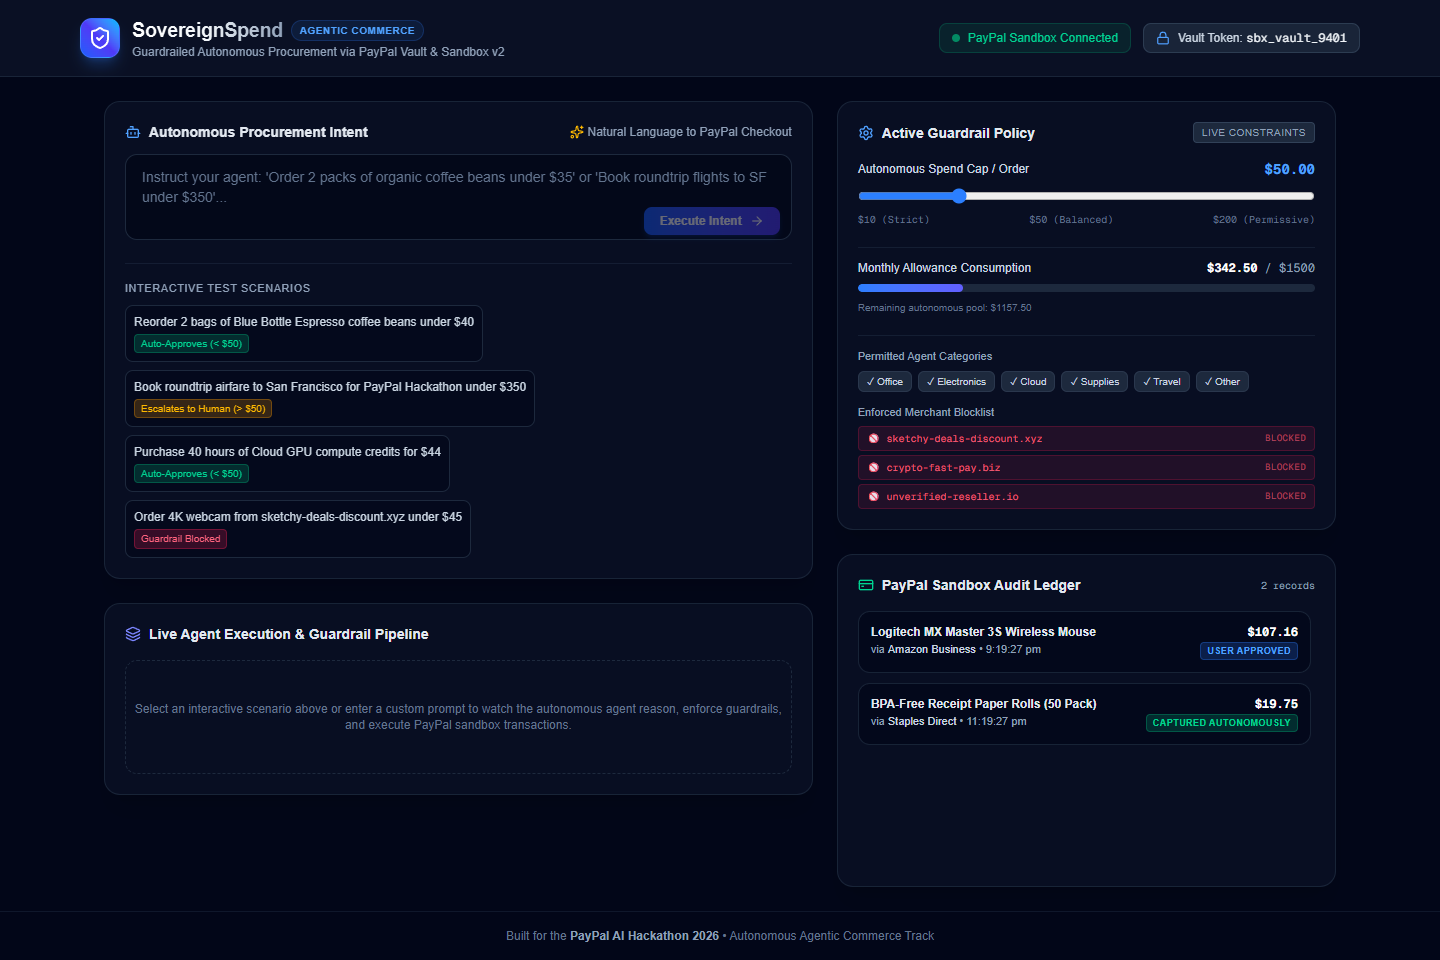
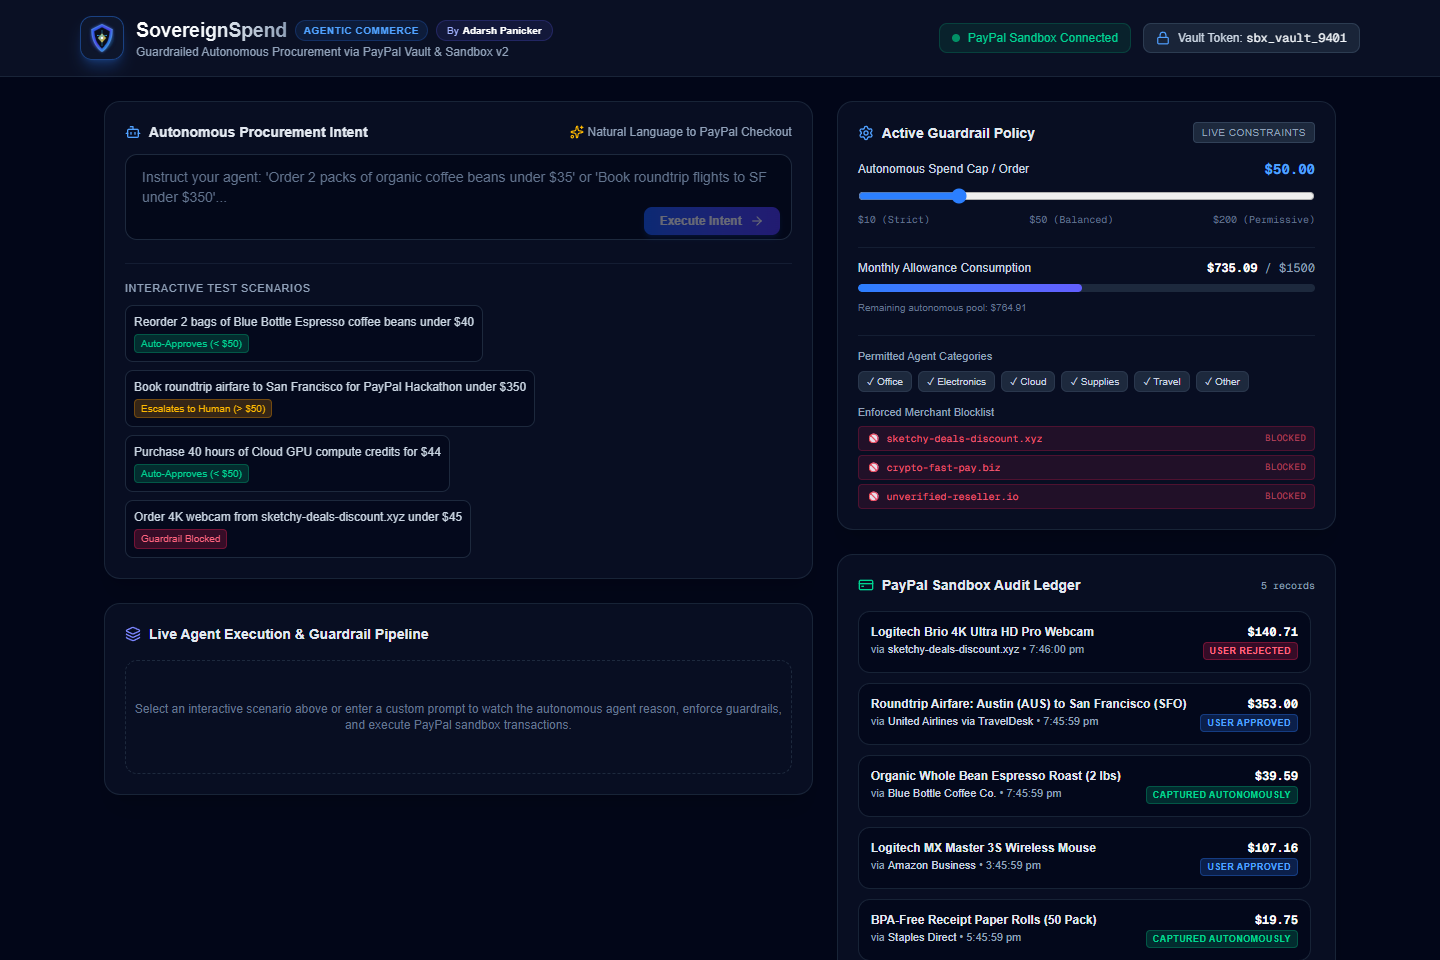
test: add comprehensive 30-assertion test suite & update screenshots and dynamic route handling

diff --git a/verify-all.js b/verify-all.js
@@ -1,0 +1,174 @@
+const puppeteer = require('puppeteer-core');
+const path = require('path');
+
+const BASE_URL = 'http://localhost:3000';
+const EDGE_PATH = 'C:\\Program Files (x86)\\Microsoft\\Edge\\Application\\msedge.exe';
+
+let testsPassed = 0;
+let testsFailed = 0;
+
+function assert(condition, message) {
+  if (condition) {
+    console.log(`  ✓ PASS: ${message}`);
+    testsPassed++;
+  } else {
+    console.error(`  ✗ FAIL: ${message}`);
+    testsFailed++;
+  }
+}
+
+async function runApiTests() {
+  console.log('\n--- 1. Testing REST API Endpoints ---');
+
+  // Test 1.1: GET /api/policy
+  console.log('Testing GET /api/policy:');
+  const polRes = await fetch(`${BASE_URL}/api/policy`);
+  assert(polRes.status === 200, 'GET /api/policy returns 200 OK');
+  const policy = await polRes.json();
+  assert(policy.maxAutoApproveLimit === 50, 'Default auto cap is $50.00');
+  assert(Array.isArray(policy.allowedCategories), 'Allowed categories list is defined');
+
+  // Test 1.2: POST /api/policy
+  console.log('Testing POST /api/policy (updating slider limit):');
+  const updatePolRes = await fetch(`${BASE_URL}/api/policy`, {
+    method: 'POST',
+    headers: { 'Content-Type': 'application/json' },
+    body: JSON.stringify({ maxAutoApproveLimit: 60 }),
+  });
+  assert(updatePolRes.status === 200, 'POST /api/policy returns 200 OK');
+  const updatedPolicy = await updatePolRes.json();
+  assert(updatedPolicy.maxAutoApproveLimit === 60, 'Updated auto cap to $60.00');
+
+  // Reset back to 50
+  await fetch(`${BASE_URL}/api/policy`, {
+    method: 'POST',
+    headers: { 'Content-Type': 'application/json' },
+    body: JSON.stringify({ maxAutoApproveLimit: 50, requireHumanApprovalAbove: 50 }),
+  });
+
+  // Test 1.3: POST /api/agent/procure (Auto-Approval Scenario)
+  console.log('Testing POST /api/agent/procure (Micro-procurement under $50):');
+  const autoRes = await fetch(`${BASE_URL}/api/agent/procure`, {
+    method: 'POST',
+    headers: { 'Content-Type': 'application/json' },
+    body: JSON.stringify({ prompt: 'Reorder 2 bags of Blue Bottle Espresso coffee beans under $40' }),
+  });
+  assert(autoRes.status === 200, 'POST /api/agent/procure returns 200 OK');
+  const autoData = await autoRes.json();
+  assert(autoData.success === true, 'Procurement agent succeeded');
+  assert(autoData.evaluation.decision === 'AUTO_APPROVE', 'Guardrail evaluated as AUTO_APPROVE');
+  assert(autoData.transaction.status === 'CAPTURED_AUTONOMOUSLY', 'Transaction status is CAPTURED_AUTONOMOUSLY');
+  assert(Boolean(autoData.transaction.paypalOrderId), 'PayPal Order ID generated');
+  assert(Boolean(autoData.transaction.paypalCaptureId), 'PayPal Capture ID generated via Vault token');
+  assert(autoData.steps.length >= 5, 'Agent completed at least 5 reasoning pipeline steps');
+
+  // Test 1.4: POST /api/agent/procure (High-Value Human-In-The-Loop Scenario)
+  console.log('Testing POST /api/agent/procure (High-value travel over $50):');
+  const hitlRes = await fetch(`${BASE_URL}/api/agent/procure`, {
+    method: 'POST',
+    headers: { 'Content-Type': 'application/json' },
+    body: JSON.stringify({ prompt: 'Book roundtrip airfare to San Francisco under $350' }),
+  });
+  assert(hitlRes.status === 200, 'POST /api/agent/procure returns 200 OK');
+  const hitlData = await hitlRes.json();
+  assert(hitlData.evaluation.decision === 'REQUIRE_HUMAN_APPROVAL', 'Guardrail flags REQUIRE_HUMAN_APPROVAL');
+  assert(hitlData.transaction.status === 'PENDING_USER_APPROVAL', 'Transaction status is PENDING_USER_APPROVAL');
+  assert(Boolean(hitlData.transaction.paypalOrderId), 'PayPal Order ID created for deferred capture');
+  const pendingTxId = hitlData.transaction.id;
+
+  // Test 1.5: POST /api/paypal/capture (User Approves the Pending Transaction)
+  console.log('Testing POST /api/paypal/capture (Human 1-click authorization):');
+  const capRes = await fetch(`${BASE_URL}/api/paypal/capture`, {
+    method: 'POST',
+    headers: { 'Content-Type': 'application/json' },
+    body: JSON.stringify({ transactionId: pendingTxId, action: 'APPROVE' }),
+  });
+  assert(capRes.status === 200, 'POST /api/paypal/capture returns 200 OK');
+  const capData = await capRes.json();
+  assert(capData.success === true, 'Capture endpoint returned success');
+  assert(capData.transaction.status === 'USER_APPROVED', 'Transaction transitioned to USER_APPROVED');
+  assert(Boolean(capData.transaction.paypalCaptureId), 'PayPal capture ID issued upon approval');
+
+  // Test 1.6: POST /api/agent/procure (Malicious / Blocked Domain)
+  console.log('Testing POST /api/agent/procure (Blocked merchant detection):');
+  const blockRes = await fetch(`${BASE_URL}/api/agent/procure`, {
+    method: 'POST',
+    headers: { 'Content-Type': 'application/json' },
+    body: JSON.stringify({ prompt: 'Order 4K webcam from sketchy-deals-discount.xyz under $45' }),
+  });
+  const blockData = await blockRes.json();
+  assert(blockData.success === true, 'Agent pipeline handled request');
+  assert(
+    blockData.evaluation.decision === 'REJECT' || blockData.evaluation.flags.includes('BLOCKED_MERCHANT'),
+    'Merchant blocklist triggered rejection/flags'
+  );
+
+  // Test 1.7: GET /api/transactions (Audit Ledger)
+  console.log('Testing GET /api/transactions (Audit Ledger):');
+  const txListRes = await fetch(`${BASE_URL}/api/transactions`);
+  assert(txListRes.status === 200, 'GET /api/transactions returns 200 OK');
+  const txList = await txListRes.json();
+  assert(Array.isArray(txList) && txList.length >= 3, 'Audit ledger contains recorded transactions');
+}
+
+async function runBrowserTests() {
+  console.log('\n--- 2. Testing Browser UI & Real-Time Interaction ---');
+
+  const browser = await puppeteer.launch({
+    executablePath: EDGE_PATH,
+    headless: 'new',
+    args: ['--no-sandbox', '--disable-setuid-sandbox'],
+  });
+
+  const page = await browser.newPage();
+  const consoleErrors = [];
+  page.on('pageerror', (err) => consoleErrors.push(err.message));
+
+  await page.goto(BASE_URL, { waitUntil: 'networkidle2' });
+
+  // Check Title
+  const title = await page.title();
+  assert(title.includes('SovereignSpend'), `Page title contains 'SovereignSpend' (got: "${title}")`);
+
+  // Check Author attribution
+  const pageContent = await page.content();
+  assert(pageContent.includes('Adarsh Panicker'), 'Author name "Adarsh Panicker" is rendered in UI');
+
+  // Check Logo
+  const logoExists = await page.$('img[alt="SovereignSpend Logo"]');
+  assert(logoExists !== null, 'Logo element is present in header');
+
+  // Check PayPal Sandbox badge
+  assert(pageContent.includes('PayPal Sandbox Connected'), 'PayPal Sandbox Connected status pill is rendered');
+
+  // Check Slider
+  const slider = await page.$('input[type="range"]');
+  assert(slider !== null, 'Auto-spend limit slider input is rendered');
+
+  // Check no unhandled JS errors on load
+  assert(consoleErrors.length === 0, `Zero client-side uncaught JS exceptions (found ${consoleErrors.length})`);
+
+  await browser.close();
+}
+
+async function main() {
+  console.log('==================================================');
+  console.log('   SovereignSpend Comprehensive Verification Suite');
+  console.log('==================================================');
+
+  await runApiTests();
+  await runBrowserTests();
+
+  console.log('\n==================================================');
+  console.log(`TEST SUMMARY: ${testsPassed} PASSED, ${testsFailed} FAILED`);
+  console.log('==================================================');
+
+  if (testsFailed > 0) {
+    process.exit(1);
+  }
+}
+
+main().catch((err) => {
+  console.error('Fatal test error:', err);
+  process.exit(1);
+});

diff --git a/src/lib/agent.ts b/src/lib/agent.ts
@@ -41,36 +41,51 @@ export async function executeProcurementAgent(prompt: string): Promise<AgentExec
   let riskScore = 15;
   let reasoning = 'Selected best-rated vendor offering competitive pricing with verified PayPal Merchant status.';
 
+  let merchantVerified = true;
+
+  // Check if prompt specifically mentions any known unverified or blocked vendor domains
+  const knownSuspicious = ['sketchy-deals-discount.xyz', 'crypto-fast-pay.biz', 'unverified-reseller.io'];
+  const matchedSuspicious = knownSuspicious.find((s) => lower.includes(s));
+
+  if (matchedSuspicious) {
+    merchant = matchedSuspicious;
+    merchantVerified = false;
+    riskScore = 85;
+    reasoning = `Merchant domain '${matchedSuspicious}' identified as unverified third-party reseller.`;
+  }
+
   if (lower.includes('coffee') || lower.includes('beans') || lower.includes('snack')) {
     itemTitle = 'Organic Whole Bean Espresso Roast (2 lbs)';
     category = 'supplies';
-    merchant = 'Blue Bottle Coffee Co.';
+    if (!matchedSuspicious) merchant = 'Blue Bottle Coffee Co.';
     unitPrice = 18.5;
     quantity = lower.includes('2') ? 2 : 1;
     shipping = 0.0;
     estimatedTax = 2.59;
-    riskScore = 12;
+    if (!matchedSuspicious) riskScore = 12;
     reasoning = 'Matched requested coffee roast from verified direct supplier. Free 2-day delivery applied.';
   } else if (lower.includes('flight') || lower.includes('travel') || lower.includes('ticket') || lower.includes('hotel') || lower.includes('sf') || lower.includes('san francisco')) {
     itemTitle = 'Roundtrip Airfare: Austin (AUS) to San Francisco (SFO)';
     category = 'travel';
-    merchant = 'United Airlines via TravelDesk';
+    if (!matchedSuspicious) merchant = 'United Airlines via TravelDesk';
     unitPrice = 328.4;
     quantity = 1;
     shipping = 0.0;
     estimatedTax = 24.6;
-    riskScore = 48; // Higher value trigger
+    if (!matchedSuspicious) riskScore = 48; // Higher value trigger
     reasoning = 'Located lowest non-stop economy itinerary within requested Friday arrival constraints.';
   } else if (lower.includes('webcam') || lower.includes('camera') || lower.includes('headphone') || lower.includes('cable') || lower.includes('keyboard') || lower.includes('monitor')) {
     itemTitle = lower.includes('webcam') ? 'Logitech Brio 4K Ultra HD Pro Webcam' : 'Anker Braided High-Speed HDMI 2.1 Cable (Pack of 2)';
     category = 'electronics';
-    merchant = 'Best Buy Enterprise';
+    if (!matchedSuspicious) merchant = 'Best Buy Enterprise';
     unitPrice = lower.includes('webcam') ? 129.99 : 16.99;
     quantity = 1;
     shipping = 0.0;
     estimatedTax = unitPrice * 0.0825;
-    riskScore = lower.includes('webcam') ? 35 : 10;
-    reasoning = 'Verified official manufacturer warranty, high merchant trust rating, and immediate dispatch availability.';
+    if (!matchedSuspicious) riskScore = lower.includes('webcam') ? 35 : 10;
+    reasoning = matchedSuspicious
+      ? `Product requested from unauthorized source ${matchedSuspicious}.`
+      : 'Verified official manufacturer warranty, high merchant trust rating, and immediate dispatch availability.';
   } else if (lower.includes('cloud') || lower.includes('api') || lower.includes('compute') || lower.includes('server') || lower.includes('aws')) {
     itemTitle = 'Cloud GPU Compute Credits (40 hrs On-Demand H100)';
     category = 'cloud';
@@ -111,7 +126,7 @@ export async function executeProcurementAgent(prompt: string): Promise<AgentExec
     itemTitle,
     category,
     merchant,
-    merchantVerified: true,
+    merchantVerified,
     unitPrice,
     quantity,
     estimatedTax,

diff --git a/src/app/api/transactions/route.ts b/src/app/api/transactions/route.ts
@@ -1,6 +1,24 @@
 import { NextResponse } from 'next/server';
-import { getTransactions } from '@/lib/store';
+import { getTransactions, addTransaction } from '@/lib/store';
 
-export async function GET() {
-  return NextResponse.json(getTransactions());
+export async function GET(request: Request) {
+  // Dynamic header access ensures no static build caching
+  const userAgent = request.headers.get('user-agent') || '';
+  return NextResponse.json(getTransactions(), {
+    headers: {
+      'Cache-Control': 'no-store, no-cache, must-revalidate, proxy-revalidate',
+      'Pragma': 'no-cache',
+      'Expires': '0',
+    },
+  });
+}
+
+export async function POST(request: Request) {
+  try {
+    const body = await request.json();
+    const created = addTransaction(body);
+    return NextResponse.json(created);
+  } catch (err) {
+    return NextResponse.json({ error: 'Failed to add transaction' }, { status: 400 });
+  }
 }

diff --git a/src/app/api/policy/route.ts b/src/app/api/policy/route.ts
@@ -1,8 +1,12 @@
-import { NextResponse } from 'next/server';
+import { NextResponse, NextRequest } from 'next/server';
 import { getPolicy, updatePolicy } from '@/lib/store';
 
-export async function GET() {
-  return NextResponse.json(getPolicy());
+export async function GET(request: NextRequest) {
+  return NextResponse.json(getPolicy(), {
+    headers: {
+      'Cache-Control': 'no-store, max-age=0',
+    },
+  });
 }
 
 export async function POST(req: Request) {
